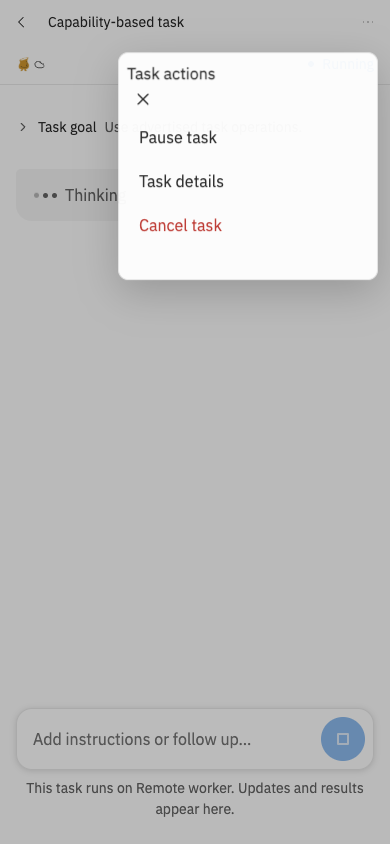
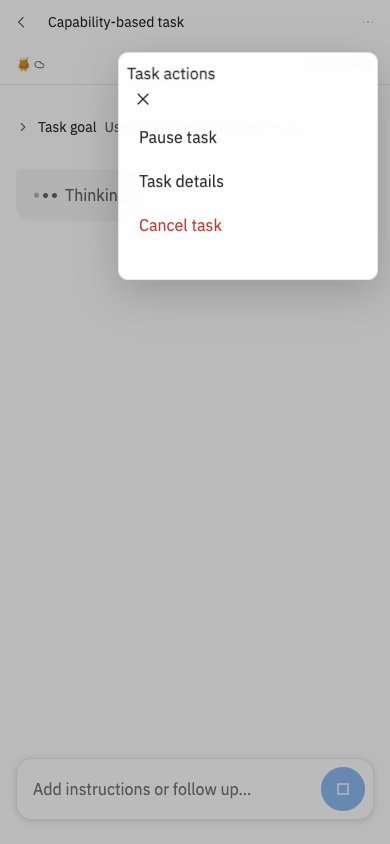
Remove redundant remote task footer hint

Changed region(s): [[0.0615, 0.8318, 0.9538, 0.9858], [0.0923, 0.8626, 0.6154, 0.8934]]

diff --git a/scripts/tests/fixtures/agent-link-task.html b/scripts/tests/fixtures/agent-link-task.html
@@ -2,7 +2,7 @@
 import {createTaskConversation} from '../../../web/src/components/task-conversation.mjs';
 import {createTaskTranscript} from '../../../web/src/state/task-transcript.mjs';
 const fixture=window.linkedTaskFixture={calls:[],language:'en'},source={node_id:'codex-node',kind:'codex',name:'Codex',link_id:'codex-link',assistant_id:'review'};
-fixture.record={info:{phase:'running',agent_link:source},request:{text:'Review the Agent Link implementation.'}};
+fixture.record={info:{phase:'running',agent_link:source},request:{text:'Review the Agent Link implementation.'},capabilities:{version:1,scope:'caller',operations:['task.read','task.cancel','task.archive']}};
 fixture.ui=createTaskConversation({root:document.querySelector('main'),task:{id:'linked-review',phase:'running',assistant_id:'pot',agent_link:source},record:fixture.record,locale:()=>fixture.language,client:{request:async()=>({items:[]})},scope:{space:'local',owner:'pot'},draft:'Retained earlier draft',onDraft:()=>{},downloadFile:()=>{},toolMemory:new Map(),approvalFor:()=>null,onDecision:()=>{},onSend:()=>fixture.calls.push('send'),onStop:()=>fixture.calls.push('stop'),onPause:()=>fixture.calls.push('pause'),onCancel:()=>fixture.calls.push('cancel'),onArchive:()=>fixture.calls.push('archive'),onUsage:()=>fixture.calls.push('usage'),onRefresh:()=>fixture.calls.push('retry'),onSettings:()=>fixture.calls.push('settings'),assistantName:'Pot'});
 fixture.state=createTaskTranscript();fixture.update=()=>fixture.ui.update({record:fixture.record,state:fixture.state,inputs:[],approvals:[]});fixture.update();fixture.ui.start();
 </script></html>

diff --git a/scripts/tests/go-ui-agent-link-task-browser.js b/scripts/tests/go-ui-agent-link-task-browser.js
@@ -1,7 +1,7 @@
 async page=>{
  const assert=(value,message)=>{if(!value)throw Error(message);},errors=[];page.on('pageerror',error=>errors.push(error.message));
  await page.goto(new URL('/scripts/tests/fixtures/agent-link-task.html',page.url()).href);
- await page.getByText('This task runs on Codex. Updates and results appear here.',{exact:true}).waitFor();
+ await page.locator('.task-stage[data-phase="running"]').waitFor();
  assert(!await page.locator('.task-composer-area form').isVisible(),'Linked tasks do not offer unsupported live steering');
  await page.evaluate(()=>linkedTaskFixture.ui.openMenu());
  assert(!await page.getByRole('button',{name:'Pause task',exact:true}).count(),'Pause is not advertised by a linked task');
